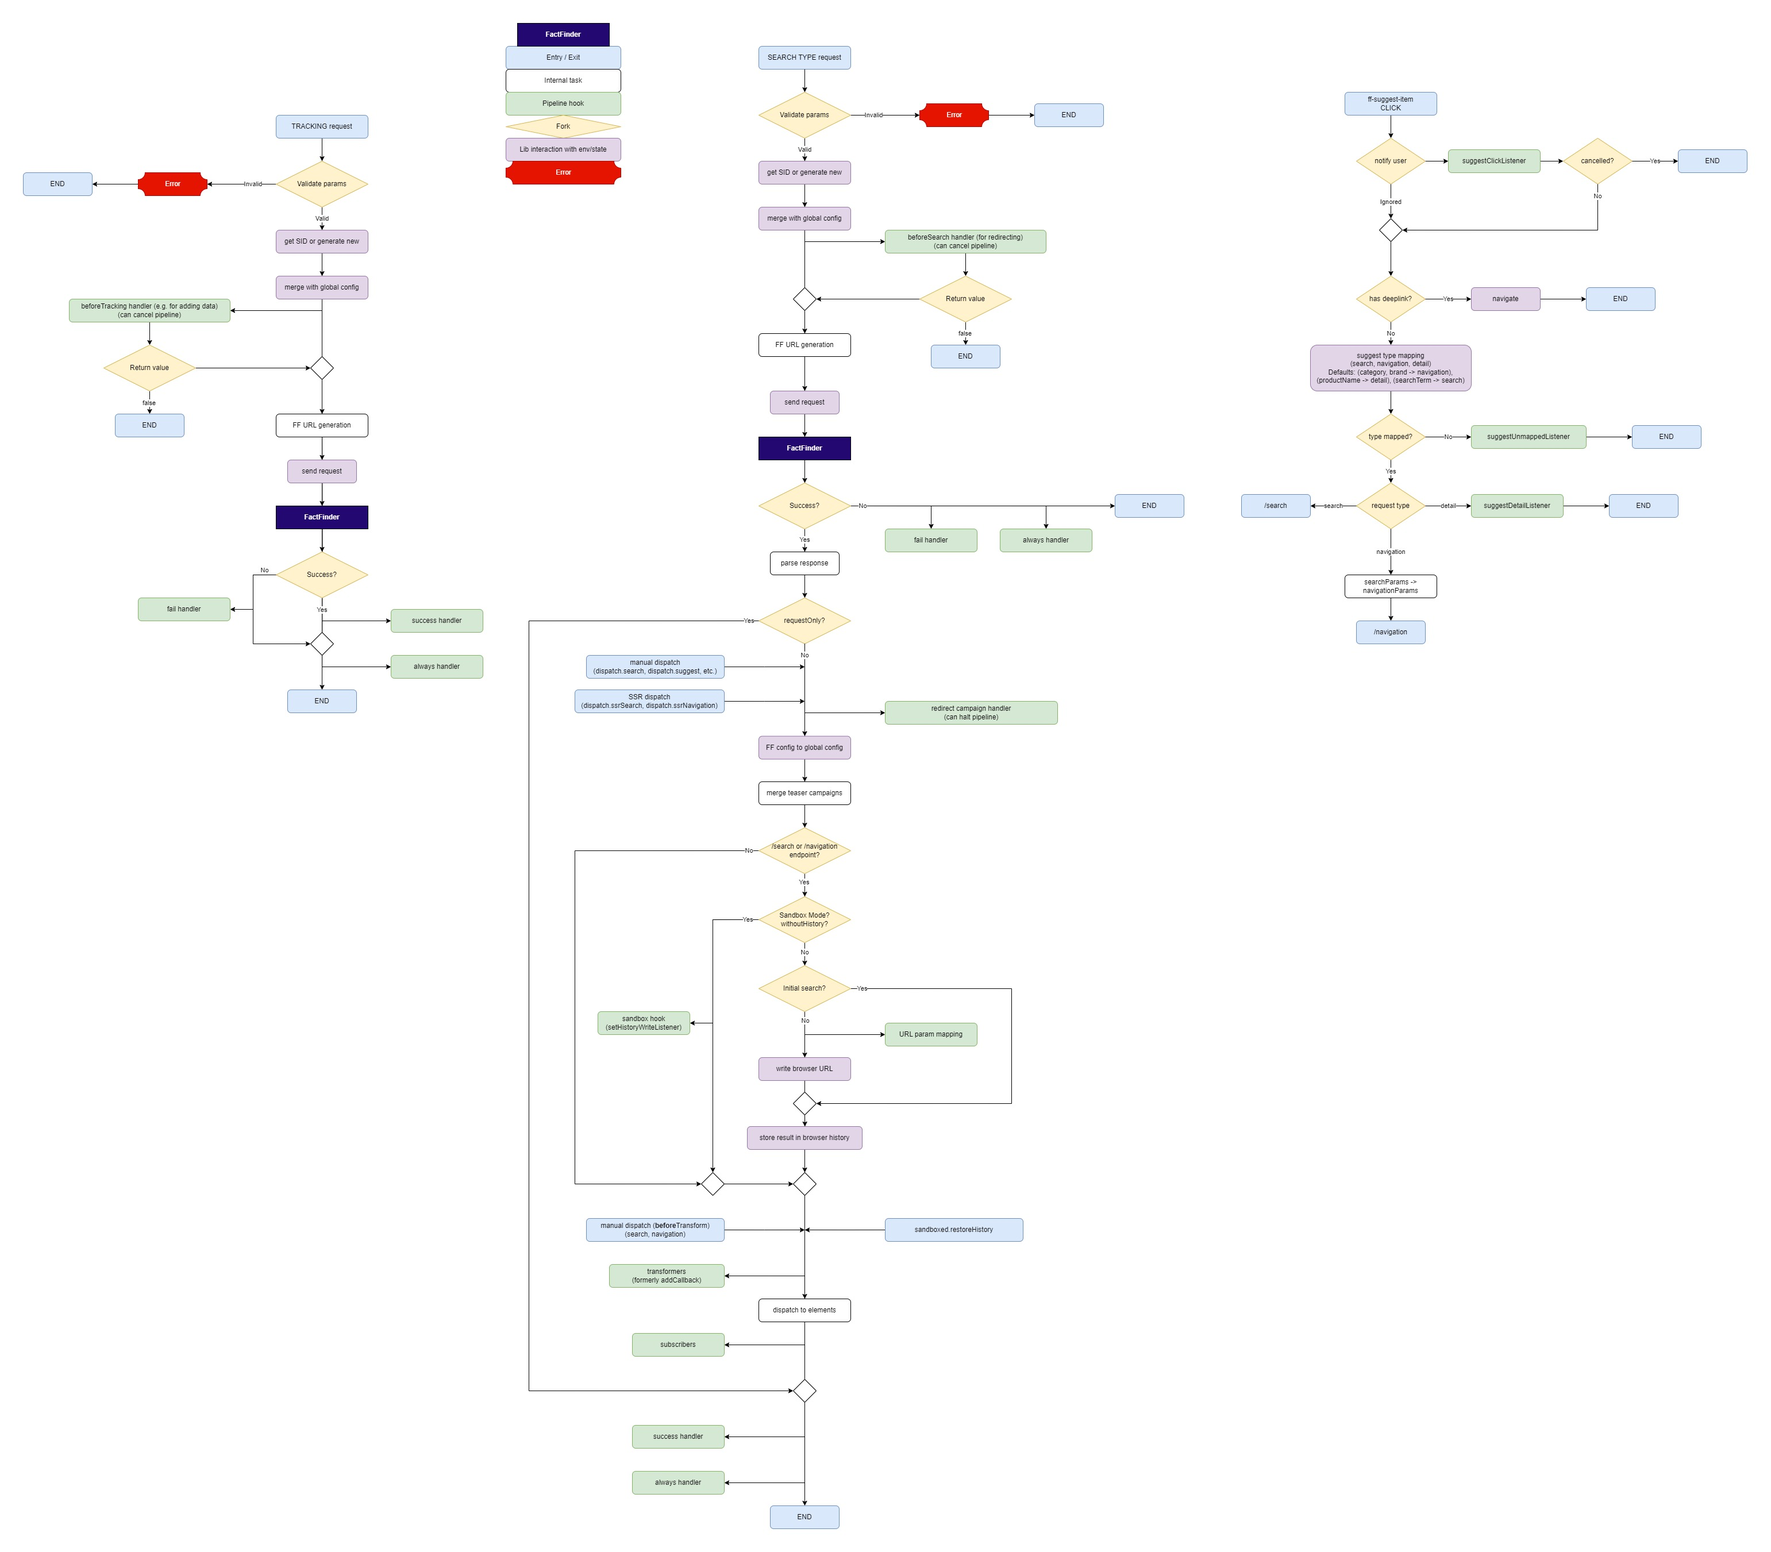
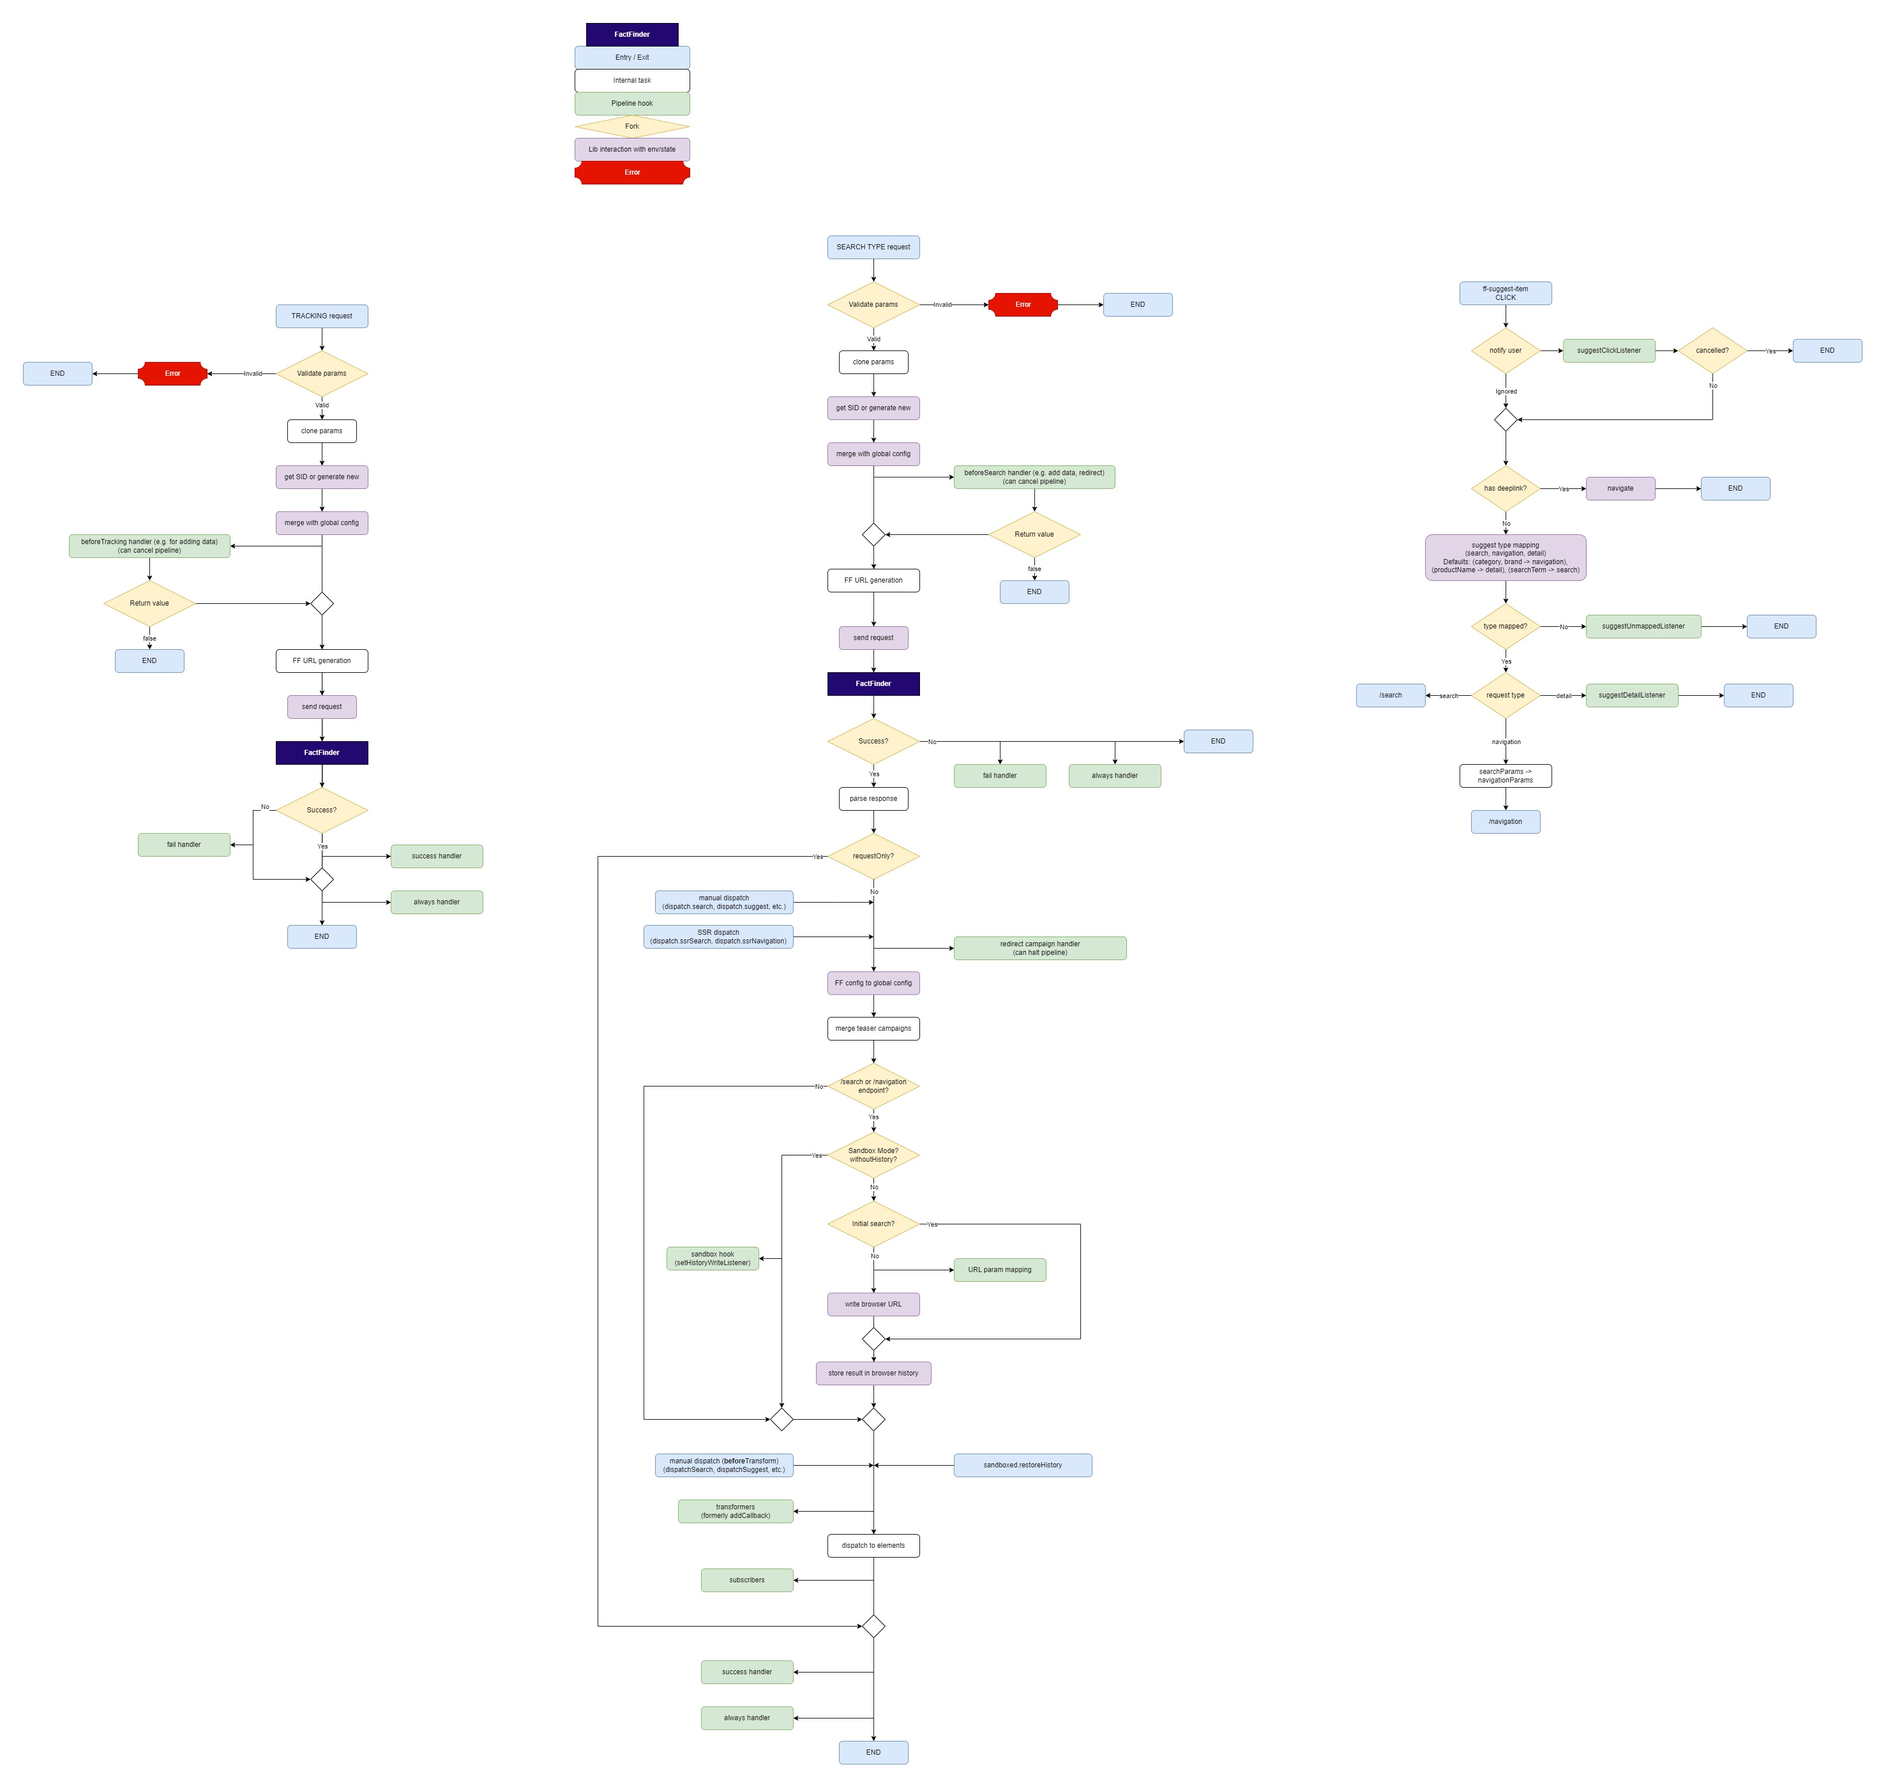
migration guide (API listing formatting and signatures) and pipeline diagram

diff --git a/README.md b/README.md
@@ -123,117 +123,121 @@ The core's structure is as follows.
 ```js
 factfinder: {
     request: {
-        campaignPage: (Required CampaignPageParams, Optional RequestOptions) => Promise CampaignsResult,
-        campaignProduct: (Required CampaignProductParams, Optional RequestOptions) => Promise CampaignsResult,
+        campaignPage:         (Required CampaignPageParams, Optional RequestOptions) => Promise CampaignsResult,
+        campaignProduct:      (Required CampaignProductParams, Optional RequestOptions) => Promise CampaignsResult,
         campaignShoppingCart: (Required CampaignShoppingCartParams, Optional RequestOptions) => Promise CampaignsResult,
-        navigation: (Required NavigationParams, Optional NavigationOptions) => Promise Result,
-        navigationCategory: (Required NavigationCategoryParams, Optional RequestOptions) => Promise CategoryNavigation,
-        predictiveBasket: (Required PredictiveBasketParams, Optional RequestOptions) => Promise PredictiveBasketResult,
-        recommendation: (Required RecommendationParams, Optional RequestOptions) => Promise RecommendationResultWithFieldRoles,
-        records: (Required RecordsParams, Optional RequestOptions) => Promise FlatRecordsResult,
-        search: (Required SearchParams, Optional SearchOptions) => Promise Result,
-        similar: (Required SimilarParams, Optional RequestOptions) => Promise SimilarProductsWithFieldRoles,
-        suggest: (Required SuggestParams, Optional RequestOptions) => Promise SuggestionResult,
+        navigation:           (Required NavigationParams, Optional NavigationOptions) => Promise Result,
+        navigationCategory:   (Required NavigationCategoryParams, Optional RequestOptions) => Promise CategoryNavigation,
+        predictiveBasket:     (Required PredictiveBasketParams, Optional RequestOptions) => Promise PredictiveBasketResult,
+        recommendation:       (Required RecommendationParams, Optional RequestOptions) => Promise RecommendationResultWithFieldRoles,
+        records:              (Required RecordsParams, Optional RequestOptions) => Promise FlatRecordsResult,
+        search:               (Required SearchParams, Optional SearchOptions) => Promise Result,
+        similar:              (Required SimilarParams, Optional RequestOptions) => Promise SimilarProductsWithFieldRoles,
+        suggest:              (Required SuggestParams, Optional RequestOptions) => Promise SuggestionResult,
         before: {
-            campaignPage: CancellableSubscriber RequestInfoCampaignPage => SubscriberID,
-            campaignProduct: CancellableSubscriber RequestInfoCampaignProduct => SubscriberID,
-            campaignShoppingCart: CancellableSubscriber RequestInfoCampaignShoppingCart => SubscriberID,
-            compare: CancellableSubscriber RequestInfoCompare => SubscriberID,
-            navigation: CancellableSubscriber RequestInfoNavigation => SubscriberID,
-            navigationCategory: CancellableSubscriber RequestInfoNavigationCategory => SubscriberID,
-            predictiveBasket: CancellableSubscriber RequestInfoPredictiveBasket => SubscriberID,
-            recommendation: CancellableSubscriber RequestInfoRecommendation => SubscriberID,
-            records: CancellableSubscriber RequestInfoRecords => SubscriberID,
-            search: CancellableSubscriber RequestInfoSearch => SubscriberID,
-            similar: CancellableSubscriber RequestInfoSimilar => SubscriberID,
-            suggest: CancellableSubscriber RequestInfoSuggest => SubscriberID,
+            campaignPage:         (CancellableSubscriber RequestInfoCampaignPage) => SubscriberID,
+            campaignProduct:      (CancellableSubscriber RequestInfoCampaignProduct) => SubscriberID,
+            campaignShoppingCart: (CancellableSubscriber RequestInfoCampaignShoppingCart) => SubscriberID,
+            compare:              (CancellableSubscriber RequestInfoCompare) => SubscriberID,
+            navigation:           (CancellableSubscriber RequestInfoNavigation) => SubscriberID,
+            navigationCategory:   (CancellableSubscriber RequestInfoNavigationCategory) => SubscriberID,
+            predictiveBasket:     (CancellableSubscriber RequestInfoPredictiveBasket) => SubscriberID,
+            recommendation:       (CancellableSubscriber RequestInfoRecommendation) => SubscriberID,
+            records:              (CancellableSubscriber RequestInfoRecords) => SubscriberID,
+            search:               (CancellableSubscriber RequestInfoSearch) => SubscriberID,
+            similar:              (CancellableSubscriber RequestInfoSimilar) => SubscriberID,
+            suggest:              (CancellableSubscriber RequestInfoSuggest) => SubscriberID,
         },
     },
     response: {
-        subscribeCampaignPage: Subscriber CampaignsResult => SubscriberID,
-        subscribeCampaignProduct: Subscriber CampaignsResult => SubscriberID,
-        subscribeCampaignRedirect: CancellableSubscriber ({ campaign: Campaign, result: Result }) => SubscriberID,
-        subscribeCampaignShoppingCart: Subscriber CampaignsResult => SubscriberID,
-        subscribeNavigation: Subscriber Result => SubscriberID,
-        subscribeNavigationCategory: Subscriber CategoryNavigation => SubscriberID,
-        subscribePredictiveBasket: Subscriber PredictiveBasketResult => SubscriberID,
-        subscribeRecommendation: Subscriber RecommendationResultWithFieldRoles => SubscriberID,
-        subscribeRecords: Subscriber FlatRecordsResult => SubscriberID,
-        subscribeSearch: Subscriber Result => SubscriberID,
-        subscribeSimilar: Subscriber SimilarProductsWithFieldRoles => SubscriberID,
-        subscribeSuggest: Subscriber SuggestionResult => SubscriberID,
-        subscribeSearchAndNavigation: Subscriber Result => SubscriberID,
-        unsubscribe: SubscriberID => Boolean,
-        transformCampaignPage: Transformer CampaignsResult => undefined,
-        transformCampaignProduct: Transformer CampaignsResult => undefined,
-        transformCampaignShoppingCart: Transformer CampaignsResult => undefined,
-        transformCompare: Transformer CompareResult => undefined,
-        transformNavigation: Transformer Result => undefined,
-        transformNavigationCategory: Transformer CategoryNavigation => undefined,
-        transformPredictiveBasket: Transformer PredictiveBasketResult => undefined,
-        transformRecommendation: Transformer RecommendationResultWithFieldRoles => undefined,
-        transformRecords: Transformer FlatRecordsResult => undefined,
-        transformSearch: Transformer Result => undefined,
-        transformSimilar: Transformer SimilarProductsWithFieldRoles => undefined,
-        transformSuggest: Transformer SuggestionResult => undefined,
+        subscribeCampaignPage:         (Subscriber CampaignsResult RequestInfoCampaignPage) => SubscriberID,
+        subscribeCampaignProduct:      (Subscriber CampaignsResult RequestInfoCampaignProduct) => SubscriberID,
+        subscribeCampaignRedirect:     (CancellableSubscriber ({ campaign: Campaign,
+                                                                 result: Result,
+                                                                 requestInfo: Optional (RequestInfoNavigation | RequestInfoSearch)
+                                                              })) => SubscriberID,
+        subscribeCampaignShoppingCart: (Subscriber CampaignsResult RequestInfoCampaignShoppingCart) => SubscriberID,
+        subscribeNavigation:           (Subscriber Result (Optional RequestInfoNavigation)) => SubscriberID,
+        subscribeNavigationCategory:   (Subscriber CategoryNavigation RequestInfoNavigationCategory) => SubscriberID,
+        subscribePredictiveBasket:     (Subscriber PredictiveBasketResult RequestInfoPredictiveBasket) => SubscriberID,
+        subscribeRecommendation:       (Subscriber RecommendationResultWithFieldRoles RequestInfoRecommendation) => SubscriberID,
+        subscribeRecords:              (Subscriber FlatRecordsResult RequestInfoRecords) => SubscriberID,
+        subscribeSearch:               (Subscriber Result (Optional RequestInfoSearch)) => SubscriberID,
+        subscribeSimilar:              (Subscriber SimilarProductsWithFieldRoles RequestInfoSimilar) => SubscriberID,
+        subscribeSuggest:              (Subscriber SuggestionResult (Optional RequestInfoSuggest)) => SubscriberID,
+        subscribeSearchAndNavigation:  (Subscriber Result (RequestInfoNavigation | RequestInfoSearch)) => SubscriberID,
+        unsubscribe:                   (SubscriberID) => Boolean,
+        transformCampaignPage:         (Transformer CampaignsResult RequestInfoCampaignPage) => undefined,
+        transformCampaignProduct:      (Transformer CampaignsResult RequestInfoCampaignProduct) => undefined,
+        transformCampaignShoppingCart: (Transformer CampaignsResult RequestInfoCampaignShoppingCart) => undefined,
+        transformCompare:              (Transformer CompareResult RequestInfoCompare) => undefined,
+        transformNavigation:           (Transformer Result (Optional RequestInfoNavigation)) => undefined,
+        transformNavigationCategory:   (Transformer CategoryNavigation RequestInfoNavigationCategory) => undefined,
+        transformPredictiveBasket:     (Transformer PredictiveBasketResult RequestInfoPredictiveBasket) => undefined,
+        transformRecommendation:       (Transformer RecommendationResultWithFieldRoles RequestInfoRecommendation) => undefined,
+        transformRecords:              (Transformer FlatRecordsResult RequestInfoRecords) => undefined,
+        transformSearch:               (Transformer Result (Optional RequestInfoSearch)) => undefined,
+        transformSimilar:              (Transformer SimilarProductsWithFieldRoles RequestInfoSimilar) => undefined,
+        transformSuggest:              (Transformer SuggestionResult (Optional RequestInfoSuggest)) => undefined,
         dispatch: {
-            navigation: (Result, Optional RequestInfoNavigation) => Result,
+            navigation:                (Result, Optional RequestInfoNavigation) => Result,
             navigationBeforeTransform: (Result, Optional RequestInfoNavigation) => Result,
-            search: (Result, Optional RequestInfoSearch) => Result,
-            searchBeforeTransform: (Result, Optional RequestInfoSearch) => Result,
-            suggest: (SuggestionResult, Optional RequestInfoSuggest) => SuggestionResult,
-            ssrNavigation: (Result, Optional RequestInfoNavigation) => Result,
-            ssrSearch: (Result, Optional RequestInfoSearch) => Result,
+            search:                    (Result, Optional RequestInfoSearch) => Result,
+            searchBeforeTransform:     (Result, Optional RequestInfoSearch) => Result,
+            suggest:                   (SuggestionResult, Optional RequestInfoSuggest) => SuggestionResult,
+            ssrNavigation:             (Result, Optional RequestInfoNavigation) => Result,
+            ssrSearch:                 (Result, Optional RequestInfoSearch) => Result,
         },
     },
     tracking: {
-        cart: (Required (NonEmptyArray CartOrCheckoutEvent), Optional RequestOptions) => Promise undefined,
-        checkout: (Required (NonEmptyArray CartOrCheckoutEvent), Optional RequestOptions) => Promise undefined,
-        click: (Required (NonEmptyArray ClickEvent), Optional RequestOptions) => Promise undefined,
-        landingPageClick: (Required (NonEmptyArray LandingPageClickEvent), Optional RequestOptions) => Promise undefined,
-        login: (Required (NonEmptyArray LoginEvent), Optional RequestOptions) => Promise undefined,
-        predbasketClick: (Required (NonEmptyArray PredBasketClickEvent), Optional RequestOptions) => Promise undefined,
+        cart:                (Required (NonEmptyArray CartOrCheckoutEvent), Optional RequestOptions) => Promise undefined,
+        checkout:            (Required (NonEmptyArray CartOrCheckoutEvent), Optional RequestOptions) => Promise undefined,
+        click:               (Required (NonEmptyArray ClickEvent), Optional RequestOptions) => Promise undefined,
+        landingPageClick:    (Required (NonEmptyArray LandingPageClickEvent), Optional RequestOptions) => Promise undefined,
+        login:               (Required (NonEmptyArray LoginEvent), Optional RequestOptions) => Promise undefined,
+        predbasketClick:     (Required (NonEmptyArray PredBasketClickEvent), Optional RequestOptions) => Promise undefined,
         recommendationClick: (Required (NonEmptyArray RecommendationClickEvent), Optional RequestOptions) => Promise undefined,
         before: {
-            cart: CancellableSubscriber RequestInfoTrackCartOrCheckout => SubscriberID,
-            checkout: CancellableSubscriber RequestInfoTrackCartOrCheckout => SubscriberID,
-            click: CancellableSubscriber RequestInfoTrackClick => SubscriberID,
-            landingPageClick: CancellableSubscriber RequestInfoTrackLandingPageClick => SubscriberID,
-            login: CancellableSubscriber RequestInfoTrackLogin => SubscriberID,
-            predbasketClick: CancellableSubscriber RequestInfoTrackPredBasketClick => SubscriberID,
-            recommendationClick: CancellableSubscriber RequestInfoTrackRecommendationClick => SubscriberID,
+            cart:                (CancellableSubscriber RequestInfoTrackCartOrCheckout) => SubscriberID,
+            checkout:            (CancellableSubscriber RequestInfoTrackCartOrCheckout) => SubscriberID,
+            click:               (CancellableSubscriber RequestInfoTrackClick) => SubscriberID,
+            landingPageClick:    (CancellableSubscriber RequestInfoTrackLandingPageClick) => SubscriberID,
+            login:               (CancellableSubscriber RequestInfoTrackLogin) => SubscriberID,
+            predbasketClick:     (CancellableSubscriber RequestInfoTrackPredBasketClick) => SubscriberID,
+            recommendationClick: (CancellableSubscriber RequestInfoTrackRecommendationClick) => SubscriberID,
          },
     },
     config: {
-        get: () => Config
-        setFFParams: ffParams => undefined,
-        setAppConfig: appConfig => undefined,
+        get:          () => Config,
+        setFFParams:  (Required ConfigFFParams) => undefined,
+        setAppConfig: (Required ConfigAppConfig) => undefined,
     },
     notifications: {
-        addSuggestClickListener: CancellableSubscriber Origin => undefined,
-        setSuggestDetailListener: Subscriber Origin => undefined,
-        setSuggestUnmappedListener: Subscriber Origin => undefined,
+        addSuggestClickListener:    (CancellableSubscriber Origin) => undefined,
+        setSuggestDetailListener:   (Subscriber Origin) => undefined,
+        setSuggestUnmappedListener: (Subscriber Origin) => undefined,
     },
     routing: {
-        setNavigateListener: ((url, origin) => Boolean) => undefined,
+        setNavigateListener:        ((url, origin) => Boolean) => undefined,
         setUrlParamOptionsListener: (() => UrlParamMappingOptions) => undefined,
         sandboxed: {
-            restoreHistory: historyPayload => undefined,
-            setHistoryWriteListener: (historyPayload => undefined) => undefined,
+            restoreHistory:               (historyPayload) => undefined,
+            setHistoryWriteListener:      (historyPayload => undefined) => undefined,
             setSessionReadWriteListeners: ({ read, write }) => undefined,
         },
     },
     utils: {
         env: {
-            searchParamsFromUrl: options => SearchParams,
+            searchParamsFromUrl: (options) => SearchParams,
         },
         filterBuilders: {
             categoryFilter: (name, path) => Filter,
-            filter: (name, values) => Filter,
+            filter:         (name, values) => Filter,
         },
         formatters: {
             add: (name, fn) => undefined,
         },
+        toNavigationParams: (SearchParams) => NavigationParams,
     },
     version: String,
 }
